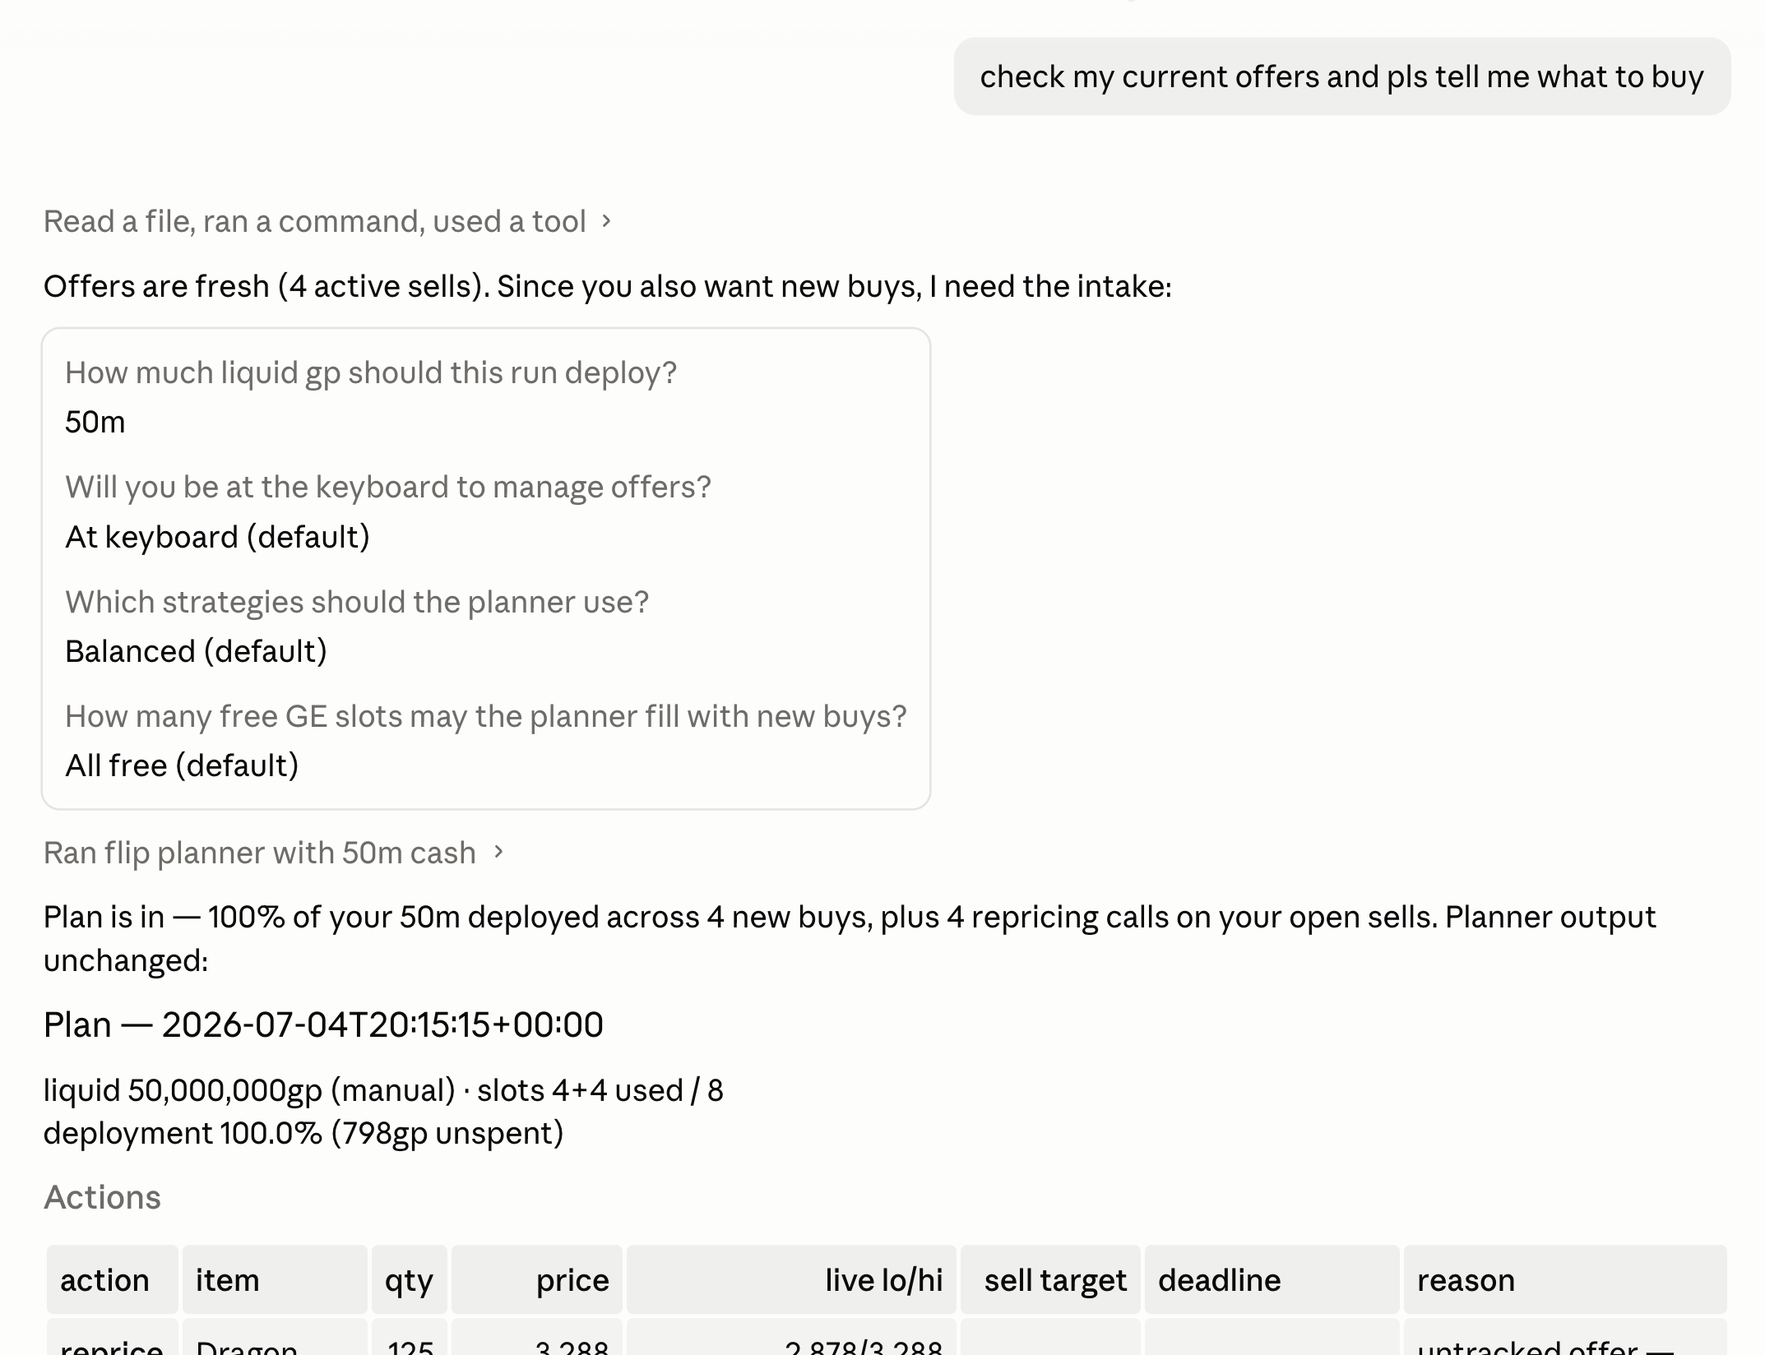
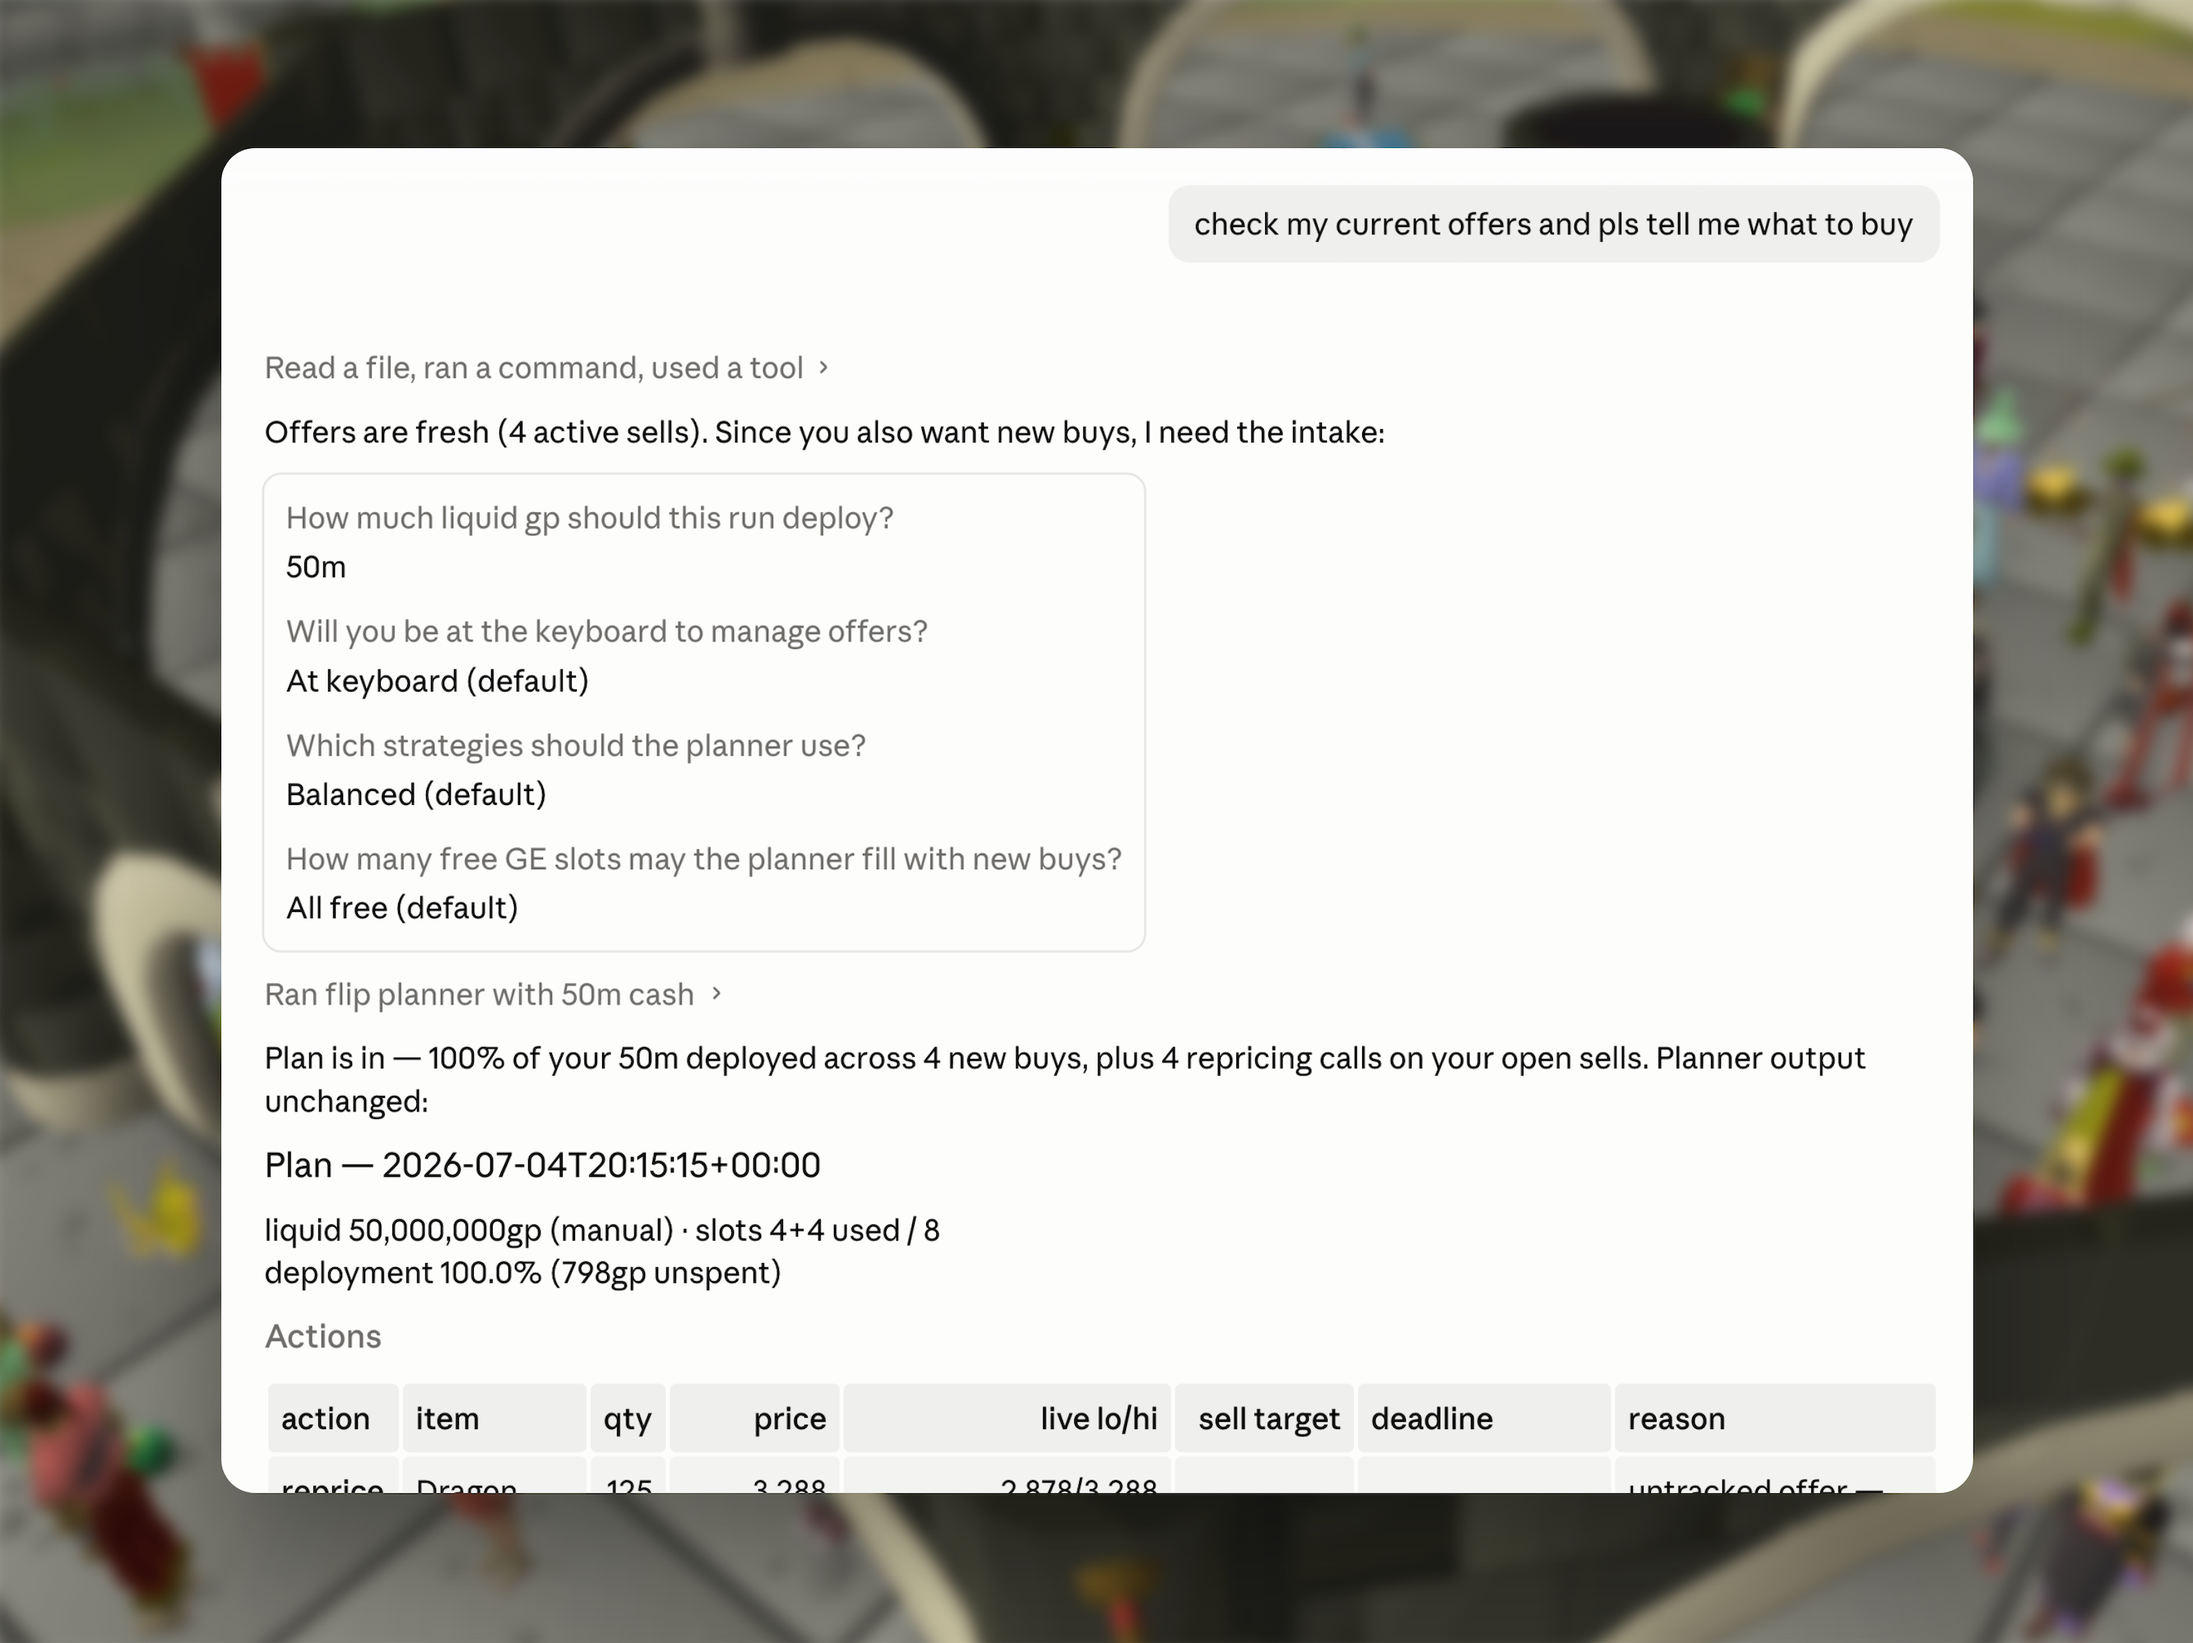
update demo img

diff --git a/README.md b/README.md
@@ -27,7 +27,7 @@ You need Git, [uv](https://docs.astral.sh/uv/) and a coding agent unless you wan
   ```
 2. **Install the RuneLite plugin fork** —
   [sasoder/rl-plugin](https://github.com/sasoder/rl-plugin). The stock Flipping Utilities doesn't export current GE slots or consume intent tags, and without those the planner can't see your open offers or connect fills back to its calls. Build and install it, then enable auto-save (1 minute interval) and "Export current GE slots" (the fork's [Merch harness integration](https://github.com/sasoder/rl-plugin#merch-harness-integration) section has screenshots of both settings).
-3. **Open Evidence-Based OSRS Flipper in your agent and run `/setup`.** It checks that the
+3. **Open the repo in your agent and run `/setup`.** It checks that the
   plugin is exporting data, then asks only for the OSRS Wiki contact, your RSN (if you have more
   than one RuneLite profile), and any subreddits you want the optional research pass to read.
   Answers go into gitignored `config/settings.json`. With one profile and no Reddit sources, no
@@ -98,7 +98,7 @@ Your exports and local state stay on disk and out of git:
 `data/incoming/flipping/`, `data/incoming/ge-slots/`, `state/offer_ages.json`,
 `state/offer_fills.json`.
 
-## Why "Evidence-Based OSRS Flipper"?
+## Why "Evidence"?
 
 Evidence is my RSN, the suggestions are evidence-based, and OSRS Flipper says exactly what the
 tool is for. A week of following the calls on around 85m liquid returned about 16m, which would
